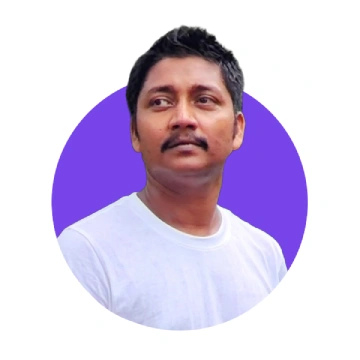
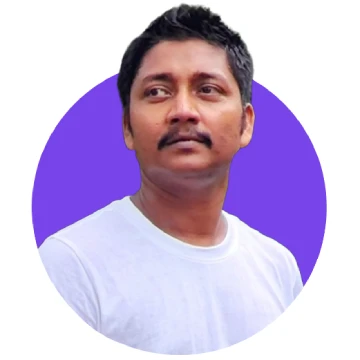
151020240622

diff --git a/index.html b/index.html
@@ -31,7 +31,6 @@
     <link rel="icon" type="image/x-icon" href="./favicon.ico">
     <link href="https://cdn.jsdelivr.net/npm/bootstrap@5.3.3/dist/css/bootstrap.min.css" rel="stylesheet"
         integrity="sha384-QWTKZyjpPEjISv5WaRU9OFeRpok6YctnYmDr5pNlyT2bRjXh0JMhjY6hW+ALEwIH" crossorigin="anonymous">
-    <link rel="stylesheet" href="https://cdn.jsdelivr.net/npm/bootstrap-icons@1.11.3/font/bootstrap-icons.min.css">
     <style>
         .aug15 {
             background-image: url('./image/extra/15august/15th-august-independence-day-of-india.webp');
@@ -253,41 +252,42 @@
         <div class="container">
             <div class="row">
                 <div class="col-12">
-                    <h1 class="lead fs-2 my-5">Boost Your Business with Expert Web Design, Development, & SEO Services
+                    <h1 class="lead fs-2 my-4">Boost Your Business with Expert Web Design, Development, & SEO Services
                         by Anupam Mondal</h1>
                 </div>
             </div>
             <div class="row">
                 <div class="col-lg-8 col-12">
-                    <p class="lead fs-6 my-5">Are you in need of a cutting-edge website for your business? Perhaps
+                    <p class="lead fs-6 mb-4">Are you in need of a cutting-edge website for your business? Perhaps
                         you're looking to enhance or modernize your existing site with top-tier web design, web
-                        development, or SEO services. Look no further! I specialize in optimizing websites for superior
+                        development, or SEO services.</p>
+                    <p class="lead fs-6 mb-4">Look no further! I specialize in optimizing websites for superior
                         placement on Search Engine Results Pages (SERPs) with sleek, lightweight designs that will
                         elevate your business among clients. Let's delve into how I can transform your online presence
                         for success.</p>
                     <ul class="list-group list-group-flush">
                         <li class="list-group-item border-0 p-0">
                             <a href="./services/digital-marketing" class="nav-link txt-anupam h6">
-                                <i class="bi bi-1-circle-fill me-2"></i>Digital Marketing Services
+                                Digital Marketing Services
                             </a>
                         </li>
                         <li class="list-group-item border-0 p-0">
                             <a href="./services/web-design" class="nav-link txt-anupam h6">
-                                <i class="bi bi-2-circle-fill me-2"></i>Web Design Services
+                                Web Design Services
                             </a>
                         </li>
                         <li class="list-group-item border-0 p-0">
                             <a href="./services/web-development" class="nav-link txt-anupam h6">
-                                <i class="bi bi-3-circle-fill me-2"></i>Web Development Services
+                                Web Development Services
                             </a>
                         </li>
                         <li class="list-group-item border-0 p-0">
                             <a href="./services/website-seo" class="nav-link txt-anupam h6">
-                                <i class="bi bi-4-circle-fill me-2"></i>Website SEO Services
+                                Website SEO Services
                             </a>
                         </li>
                     </ul>
-                    <nav class="nav my-5">
+                    <nav class="nav mt-4">
                         <a class="text-uppercase btn btn-outline-dark me-2 mb-2 px-4 py-2"
                             href="portfolio">Portfolio</a>
                         <a class="text-uppercase btn btn-outline-dark me-2 mb-2 px-4 py-2" href="about-us">About
@@ -295,8 +295,8 @@
                     </nav>
                 </div>
                 <div class="col-lg-4 col-12">
-                    <img src="./image/profile/anupam-mondal-freelancer.webp" width="360" height="360" class="my-5"
-                        alt="Anupam Mondal for Web Design | Development | SEO Servives">
+                    <img src="./image/profile/anupam-mondal-freelancer.jpg" width="360" height="360"
+                        class="img-fluid my-3" alt="Anupam Mondal for Web Design | Development | SEO Servives">
                 </div>
             </div>
         </div>
@@ -938,22 +938,38 @@
                             <a class="btn btn-outline-dark me-2"
                                 title="WhatsApp Anupam Mondal for Web Design | Development | SEO Services"
                                 href="https://wa.me/919474460058?text=Boost%20Your%20Business%20with%20Expert%20Web%20Design%2C%20Development%2C%20%26%20SEO%20Services%20by%20Anupam%20Mondal%20-%20https%3A%2F%2Fanupammondal.in%2F">
-                                <i class="bi bi-whatsapp"></i>
+                                <svg xmlns="http://www.w3.org/2000/svg" width="16" height="16" fill="currentColor"
+                                    class="bi bi-whatsapp" viewBox="0 0 16 18">
+                                    <path
+                                        d="M13.601 2.326A7.85 7.85 0 0 0 7.994 0C3.627 0 .068 3.558.064 7.926c0 1.399.366 2.76 1.057 3.965L0 16l4.204-1.102a7.9 7.9 0 0 0 3.79.965h.004c4.368 0 7.926-3.558 7.93-7.93A7.9 7.9 0 0 0 13.6 2.326zM7.994 14.521a6.6 6.6 0 0 1-3.356-.92l-.24-.144-2.494.654.666-2.433-.156-.251a6.56 6.56 0 0 1-1.007-3.505c0-3.626 2.957-6.584 6.591-6.584a6.56 6.56 0 0 1 4.66 1.931 6.56 6.56 0 0 1 1.928 4.66c-.004 3.639-2.961 6.592-6.592 6.592m3.615-4.934c-.197-.099-1.17-.578-1.353-.646-.182-.065-.315-.099-.445.099-.133.197-.513.646-.627.775-.114.133-.232.148-.43.05-.197-.1-.836-.308-1.592-.985-.59-.525-.985-1.175-1.103-1.372-.114-.198-.011-.304.088-.403.087-.088.197-.232.296-.346.1-.114.133-.198.198-.33.065-.134.034-.248-.015-.347-.05-.099-.445-1.076-.612-1.47-.16-.389-.323-.335-.445-.34-.114-.007-.247-.007-.38-.007a.73.73 0 0 0-.529.247c-.182.198-.691.677-.691 1.654s.71 1.916.81 2.049c.098.133 1.394 2.132 3.383 2.992.47.205.84.326 1.129.418.475.152.904.129 1.246.08.38-.058 1.171-.48 1.338-.943.164-.464.164-.86.114-.943-.049-.084-.182-.133-.38-.232" />
+                                </svg>
                             </a>
                             <a class="btn btn-outline-dark me-2"
                                 title="Skype Anupam Mondal for Web Design | Development | SEO Services"
                                 href="skype:live:anupam2skype?chat">
-                                <i class="bi bi-skype"></i>
+                                <svg xmlns="http://www.w3.org/2000/svg" width="16" height="16" fill="currentColor"
+                                    class="bi bi-skype" viewBox="0 0 16 18">
+                                    <path
+                                        d="M4.671 0c.88 0 1.733.247 2.468.702a7.42 7.42 0 0 1 6.02 2.118 7.37 7.37 0 0 1 2.167 5.215q0 .517-.072 1.026a4.66 4.66 0 0 1 .6 2.281 4.64 4.64 0 0 1-1.37 3.294A4.67 4.67 0 0 1 11.18 16c-.84 0-1.658-.226-2.37-.644a7.42 7.42 0 0 1-6.114-2.107A7.37 7.37 0 0 1 .529 8.035q0-.545.08-1.081a4.644 4.644 0 0 1 .76-5.59A4.68 4.68 0 0 1 4.67 0zm.447 7.01c.18.309.43.572.729.769a7 7 0 0 0 1.257.653q.737.308 1.145.523c.229.112.437.264.615.448.135.142.21.331.21.528a.87.87 0 0 1-.335.723c-.291.196-.64.289-.99.264a2.6 2.6 0 0 1-1.048-.206 11 11 0 0 1-.532-.253 1.3 1.3 0 0 0-.587-.15.72.72 0 0 0-.501.176.63.63 0 0 0-.195.491.8.8 0 0 0 .148.482 1.2 1.2 0 0 0 .456.354 5.1 5.1 0 0 0 2.212.419 4.6 4.6 0 0 0 1.624-.265 2.3 2.3 0 0 0 1.08-.801c.267-.39.402-.855.386-1.327a2.1 2.1 0 0 0-.279-1.101 2.5 2.5 0 0 0-.772-.792A7 7 0 0 0 8.486 7.3a1 1 0 0 0-.145-.058 18 18 0 0 1-1.013-.447 1.8 1.8 0 0 1-.54-.387.73.73 0 0 1-.2-.508.8.8 0 0 1 .385-.723 1.76 1.76 0 0 1 .968-.247c.26-.003.52.03.772.096q.412.119.802.293c.105.049.22.075.336.076a.6.6 0 0 0 .453-.19.7.7 0 0 0 .18-.496.72.72 0 0 0-.17-.476 1.4 1.4 0 0 0-.556-.354 3.7 3.7 0 0 0-.708-.183 6 6 0 0 0-1.022-.078 4.5 4.5 0 0 0-1.536.258 2.7 2.7 0 0 0-1.174.784 1.9 1.9 0 0 0-.45 1.287c-.01.37.076.736.25 1.063" />
+                                </svg>
                             </a>
                             <a class="btn btn-outline-dark me-2"
                                 title="Skype Anupam Mondal for Web Design | Development | SEO Services"
                                 href="http://m.me/1600651796916334?text=Boost%20Your%20Business%20with%20Expert%20Web%20Design%2C%20Development%2C%20%26%20SEO%20Services%20by%20Anupam%20Mondal%20-%20https%3A%2F%2Fanupammondal.in%2F">
-                                <i class="bi bi-messenger"></i>
+                                <svg xmlns="http://www.w3.org/2000/svg" width="16" height="16" fill="currentColor"
+                                    class="bi bi-messenger" viewBox="0 0 16 18">
+                                    <path
+                                        d="M0 7.76C0 3.301 3.493 0 8 0s8 3.301 8 7.76-3.493 7.76-8 7.76c-.81 0-1.586-.107-2.316-.307a.64.64 0 0 0-.427.03l-1.588.702a.64.64 0 0 1-.898-.566l-.044-1.423a.64.64 0 0 0-.215-.456C.956 12.108 0 10.092 0 7.76m5.546-1.459-2.35 3.728c-.225.358.214.761.551.506l2.525-1.916a.48.48 0 0 1 .578-.002l1.869 1.402a1.2 1.2 0 0 0 1.735-.32l2.35-3.728c.226-.358-.214-.761-.551-.506L9.728 7.381a.48.48 0 0 1-.578.002L7.281 5.98a1.2 1.2 0 0 0-1.735.32z" />
+                                </svg>
                             </a>
                             <a class="btn btn-outline-dark me-2"
                                 title="Skype Anupam Mondal for Web Design | Development | SEO Services"
                                 href="tel:+919474450058">
-                                <i class="bi bi-telephone-inbound-fill"></i>
+                                <svg xmlns="http://www.w3.org/2000/svg" width="16" height="16" fill="currentColor"
+                                    class="bi bi-telephone-inbound-fill" viewBox="0 0 16 18">
+                                    <path fill-rule="evenodd"
+                                        d="M1.885.511a1.745 1.745 0 0 1 2.61.163L6.29 2.98c.329.423.445.974.315 1.494l-.547 2.19a.68.68 0 0 0 .178.643l2.457 2.457a.68.68 0 0 0 .644.178l2.189-.547a1.75 1.75 0 0 1 1.494.315l2.306 1.794c.829.645.905 1.87.163 2.611l-1.034 1.034c-.74.74-1.846 1.065-2.877.702a18.6 18.6 0 0 1-7.01-4.42 18.6 18.6 0 0 1-4.42-7.009c-.362-1.03-.037-2.137.703-2.877zM15.854.146a.5.5 0 0 1 0 .708L11.707 5H14.5a.5.5 0 0 1 0 1h-4a.5.5 0 0 1-.5-.5v-4a.5.5 0 0 1 1 0v2.793L15.146.146a.5.5 0 0 1 .708 0" />
+                                </svg>
                             </a>
                         </nav>
                     </div>
